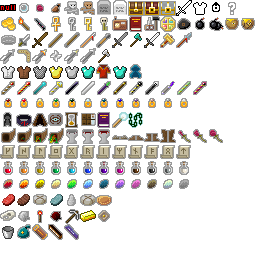
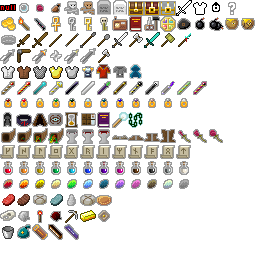
Updated ingame graphics

diff --git a/src/com/minecraftpixeldungeon/scenes/WelcomeScene.java b/src/com/minecraftpixeldungeon/scenes/WelcomeScene.java
@@ -39,7 +39,7 @@ public class WelcomeScene extends PixelScene {
 
 	private static final String TTL_Welcome = "Welcome!";
 
-	private static final String TTL_Update = "v0.1.1";
+	private static final String TTL_Update = "v0.1.2";
 
 	private static final String TTL_Future = "Wait What?";
 
@@ -64,6 +64,8 @@ public class WelcomeScene extends PixelScene {
 				"Happy Dungeoneering!";
 
 	private static final String TXT_Update =
+				"Updated the ingame graphics\n" +
+				"v0.1.1:\n" +
 				"Updated some things to meet the modding guidelines:\n" +
 				"- Changed the About screen\n" +
 				"- Title screen shows both Shattered PD and Minecraft PD version\n" +
